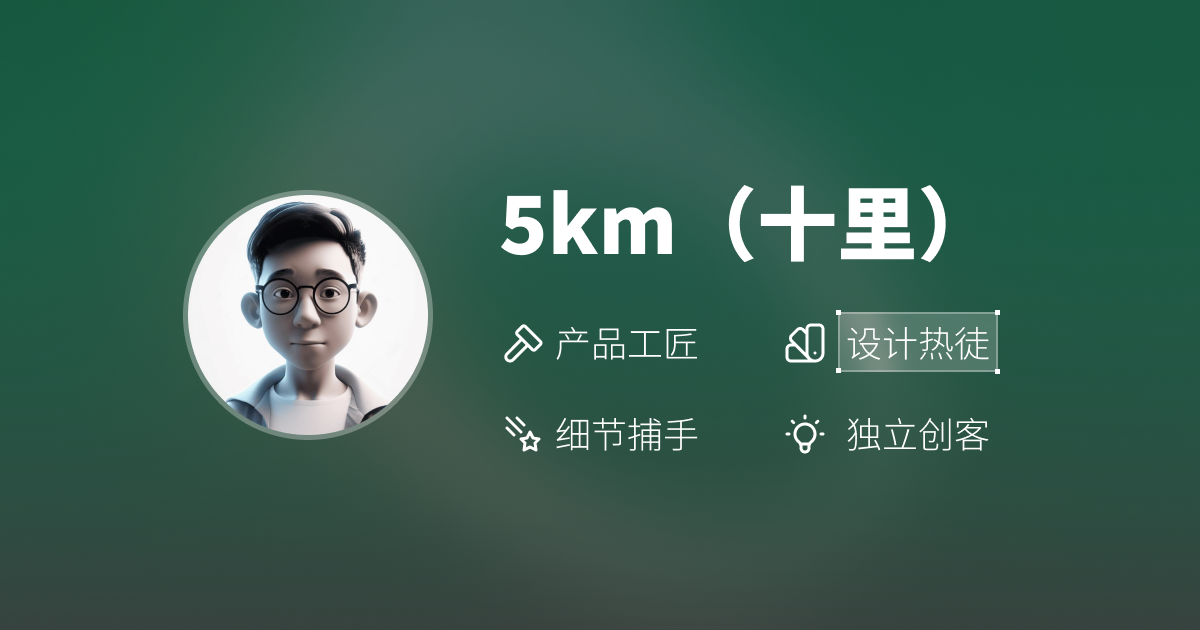
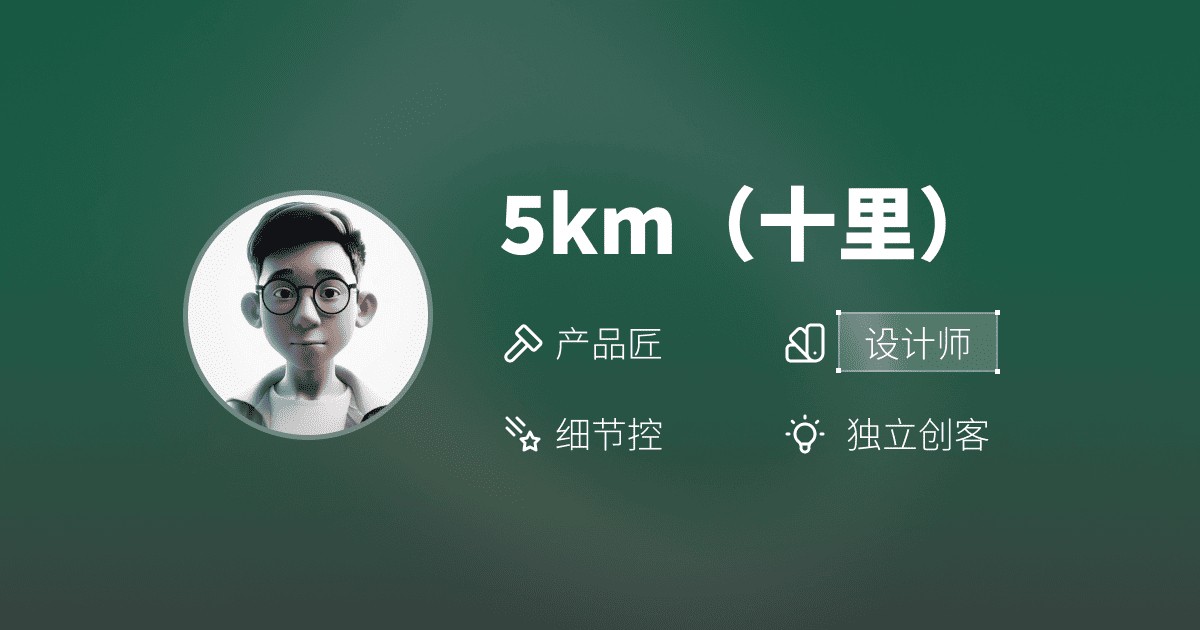
🔥 update personal information

diff --git a/app/(main)/Headline.tsx b/app/(main)/Headline.tsx
@@ -3,14 +3,14 @@
 import { motion } from 'framer-motion'
 import Balancer from 'react-wrap-balancer'
 
-import { BulbIcon, CometIcon, HammerIcon } from '~/assets'
+import { BulbIcon, CometIcon, DesignerIcon, HammerIcon } from '~/assets'
 import { SocialLink } from '~/components/links/SocialLink'
 
 function Developer() {
   return (
     <span className="group">
       <HammerIcon className="mr-1 inline-flex transform-gpu transition-transform duration-500 group-hover:rotate-180" />
-      产品工匠
+      产品匠
       <span className="invisible inline-flex text-zinc-300 before:content-['|'] group-hover:visible group-hover:animate-typing dark:text-zinc-500" />
     </span>
   )
@@ -25,7 +25,10 @@ function Designer() {
         <span className="absolute -bottom-0.5 -left-0.5 h-1.5 w-1.5 border border-lime-700 bg-zinc-50 dark:border-lime-400" />
         <span className="absolute -right-0.5 -top-0.5 h-1.5 w-1.5 border border-lime-700 bg-zinc-50 dark:border-lime-400" />
       </span>
-      设计热徒
+      <span className="group">
+        <DesignerIcon className="ml-1 mr-2 inline-flex transform-gpu transition-transform duration-500 group-hover:rotate-180" />
+        <span className='ml-1 mr-4'>设计师</span>
+      </span>
     </span>
   )
 }
@@ -34,7 +37,7 @@ function OCD() {
   return (
     <span className="group">
       <CometIcon className="mr-2 inline-flex transform-gpu transition-transform duration-500 group-hover:rotate-180" />
-      <span>细节捕手</span>
+      <span>细节控</span>
     </span>
   )
 }
@@ -80,7 +83,7 @@ export function Headline() {
         }}
       >
         <Balancer>
-          🔖 <b>Hi，我是5km！</b>自称独立创客，在探寻极简创业之道，致力于持续创造出优秀作品，目前专注于桌面应用开发。我热爱开发（软件或硬件）和设计🔥，喜欢创新和探索新事物，期待与大家有深度的交流📮。
+          🔖 <b>Hi，我是5km！</b>自认为是独立创客，在探寻极简创业之道，致力于持续创造出优秀作品，目前专注于桌面应用开发。我热爱开发（软件或硬件）和设计🔥，喜欢创新和探索新事物，期待与大家有深度的交流📮。
         </Balancer>
       </motion.p>
       <motion.div
@@ -105,27 +108,27 @@ export function Headline() {
           aria-label="我的 GitHub"
           platform="github"
         />
-        {/* <SocialLink
-          href="\/tg"
+        <SocialLink
+          href="/tg"
           aria-label="我的 Telegram"
           platform="telegram"
-        /> */}
-        <SocialLink href="/feed.xml" platform="rss" aria-label="RSS 订阅" />
-        <SocialLink
-          href="mailto:5km@smslit.cn"
-          aria-label="我的邮箱"
-          platform="mail"
         />
         <SocialLink
           href="/bilibili"
           aria-label="我的 Bilibili"
           platform="bilibili"
         />
-        {/* <SocialLink
+        <SocialLink
           href="/youtube"
           aria-label="我的 YouTube"
           platform="youtube"
-        /> */}
+        />
+        <SocialLink
+          href="mailto:5km@smslit.cn"
+          aria-label="我的邮箱"
+          platform="mail"
+        />
+        <SocialLink href="/feed.xml" platform="rss" aria-label="RSS 订阅" />
       </motion.div>
     </div>
   )

diff --git a/app/(main)/ama/page.tsx b/app/(main)/ama/page.tsx
@@ -10,7 +10,7 @@ import ThankYouLetterScreenshot2 from './Arc ynleUdHy@2x.png'
 
 const title = 'AMA 一对一咨询'
 const description =
-  'Cali 提供一对一的咨询服务（Ask Me Anything）。我有前端开发、全栈开发、UI/UX 设计、创业经验、英语技能、美国留学与工作、内容创作等经验，可以为你解答相关的问题，我也支持纯英语沟通。'
+  '5km 提供一对一的咨询服务（Ask Me Anything）。我有桌面应用开发、UI/UX 设计、嵌入式软硬件开发、Web全栈开发、独立创造、内容创作等经验，可以为你解答相关的问题。'
 
 export const metadata = {
   title,
@@ -43,7 +43,7 @@ export default function AskMeAnythingPage() {
         <p>我可以为你解答以下相关的问题：</p>
         <ul>
           <li>
-            <b>前端/全栈开发</b>
+            <b>全栈开发</b>
             ：工作难找，或是寻求职场建议？想提升自己的工程师水平？还是想锐评
             React vs Vue？
           </li>

diff --git a/assets/icons/DesignerIcon.tsx b/assets/icons/DesignerIcon.tsx
@@ -1,0 +1,17 @@
+import { type IconProps } from '~/assets'
+
+export function DesignerIcon(props: IconProps = {}) {
+  return (
+    <svg
+      width="1em"
+      height="1em"
+      viewBox="0 0 24 24"
+      fill="none"
+      xmlns="http://www.w3.org/2000/svg"
+      {...props}
+    >
+      <path d="M8.20001 13.2C9.21771 10.505 10.9441 8.13474 13.1971 6.33944C15.45 4.54414 18.1458 3.3904 21 3C20.6096 5.85418 19.4558 8.55002 17.6605 10.8029C15.8652 13.0559 13.495 14.7823 10.8 15.8M10.6 9C12.5431 9.89687 14.1031 11.4568 15 13.4M3 21V17C3 16.2089 3.2346 15.4355 3.67412 14.7777C4.11365 14.1199 4.73836 13.6072 5.46927 13.3045C6.20017 13.0017 7.00444 12.9225 7.78036 13.0769C8.55629 13.2312 9.26902 13.6122 9.82843 14.1716C10.3878 14.731 10.7688 15.4437 10.9231 16.2196C11.0775 16.9956 10.9983 17.7998 10.6955 18.5307C10.3928 19.2616 9.88008 19.8864 9.22228 20.3259C8.56448 20.7654 7.79113 21 7 21H3Z" stroke="currentColor" strokeWidth="2" strokeLinecap="round" strokeLinejoin="round"/>
+    </svg>
+  )
+}
+

diff --git a/emails/Layout.tsx b/emails/Layout.tsx
@@ -50,7 +50,7 @@ export default function Layout({
                   <strong>5km</strong>
                 </Link>
                 <br />
-                产品工匠、设计热徒、细节捕手、独立创客
+                产品匠、设计师、细节控、独立创客
               </Text>
               <Text className="text-center">
                 <Link
@@ -60,13 +60,13 @@ export default function Layout({
                   Twitter
                 </Link>{' '}
                 |&nbsp;
-                {/* <Link
+                <Link
                   href="/youtube"
                   className="text-xs text-zinc-600 underline"
                 >
                   YouTube
                 </Link>{' '}
-                |&nbsp; */}
+                |&nbsp;
                 <Link
                   href="/github"
                   className="text-xs text-zinc-600 underline"

diff --git a/app/(main)/Footer.tsx b/app/(main)/Footer.tsx
@@ -121,7 +121,7 @@ export async function Footer() {
             </div>
             <div className="flex flex-col items-center justify-between gap-6 sm:flex-row">
               <p className="text-sm text-zinc-500/80 dark:text-zinc-400/80">
-                &copy; {new Date().getFullYear()} 5km • <strong>Fork 自</strong>
+                &copy; {new Date().getFullYear()} • 5km • <strong>Fork 自</strong>
                 <PeekabooLink href="https://github.com/CaliCastle/cali.so">
                   cali.so
                 </PeekabooLink>

diff --git a/app/layout.tsx b/app/layout.tsx
@@ -18,7 +18,7 @@ export const metadata: Metadata = {
     default: seo.title,
   },
   description: seo.description,
-  keywords: '5km,okooo5km,smslit,十里,田野,开发者,设计师,细节控,创新,探索,独立创客',
+  keywords: '5km,okooo5km,smslit,十里,田野,开发者,产品匠,设计师,细节控,创新,探索,独立创客',
   themeColor: [
     { media: '(prefers-color-scheme: dark)', color: '#000212' },
     { media: '(prefers-color-scheme: light)', color: '#fafafa' },

diff --git a/assets/index.ts b/assets/index.ts
@@ -15,6 +15,7 @@ export { CometIcon } from './icons/CometIcon'
 export { CursorClickIcon } from './icons/CursorClickIcon'
 export { CursorIcon } from './icons/CursorIcon'
 export { DashboardIcon } from './icons/DashboardIcon'
+export { DesignerIcon } from './icons/DesignerIcon'
 export { ExternalLinkIcon } from './icons/ExternalLinkIcon'
 export { EyeCloseIcon } from './icons/EyeCloseIcon'
 export { EyeOpenIcon } from './icons/EyeOpenIcon'
